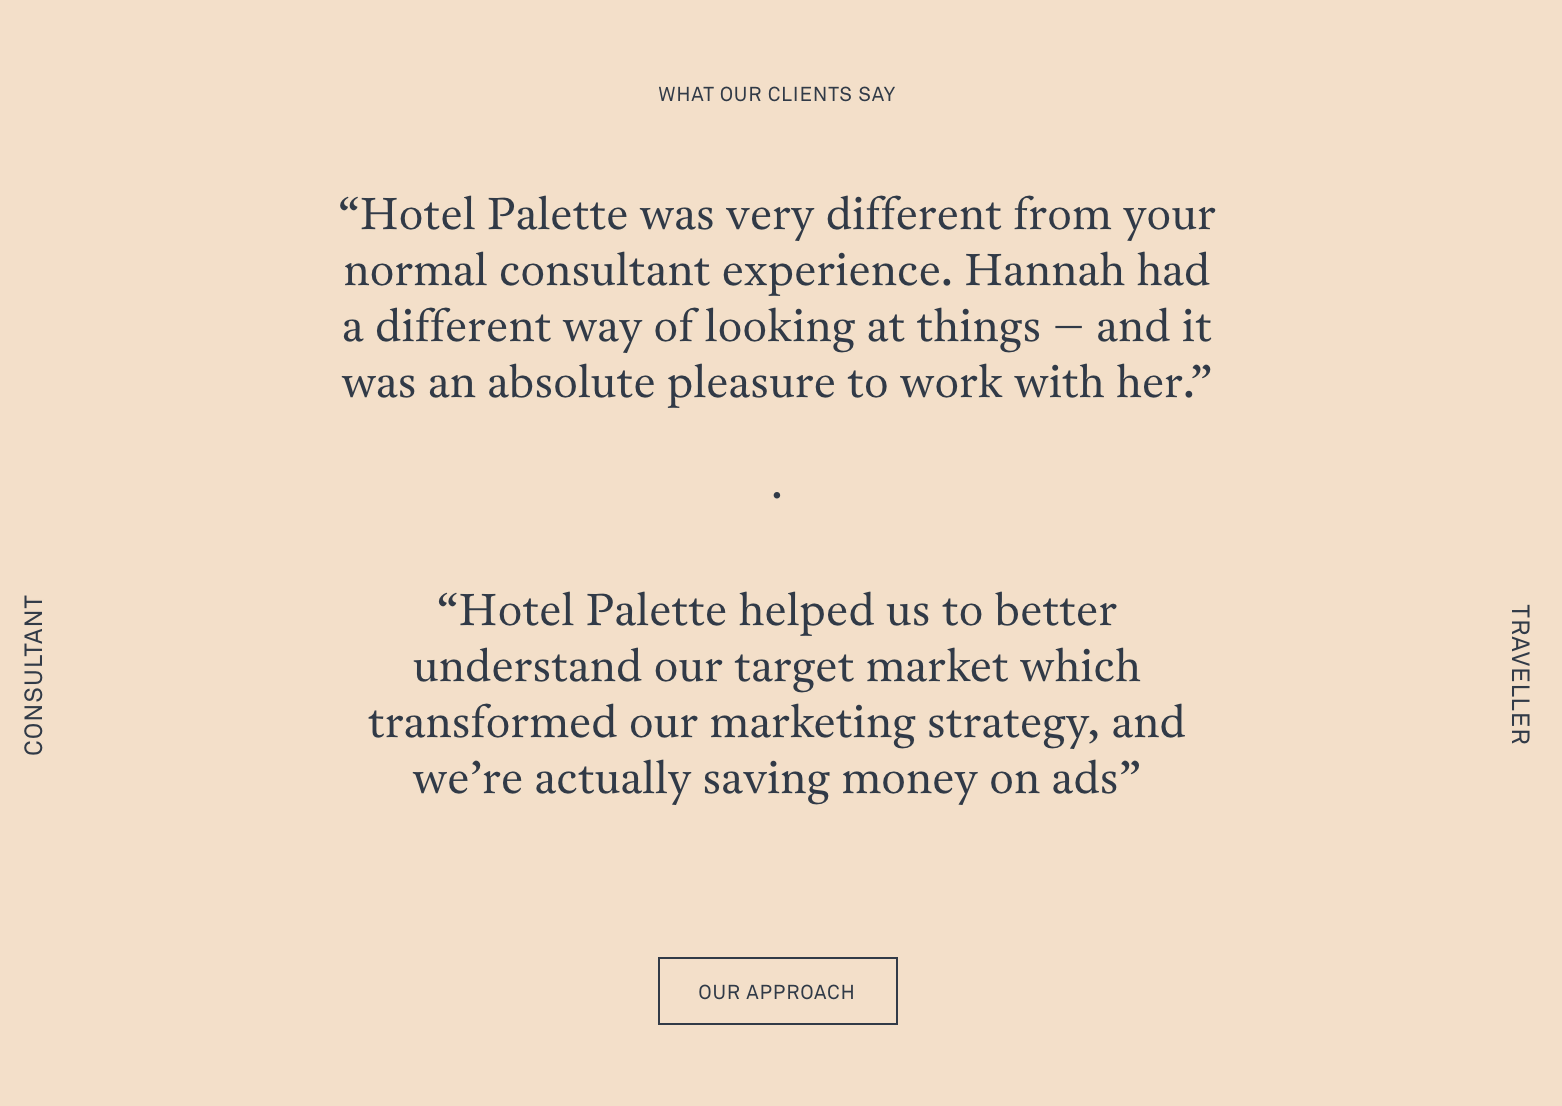
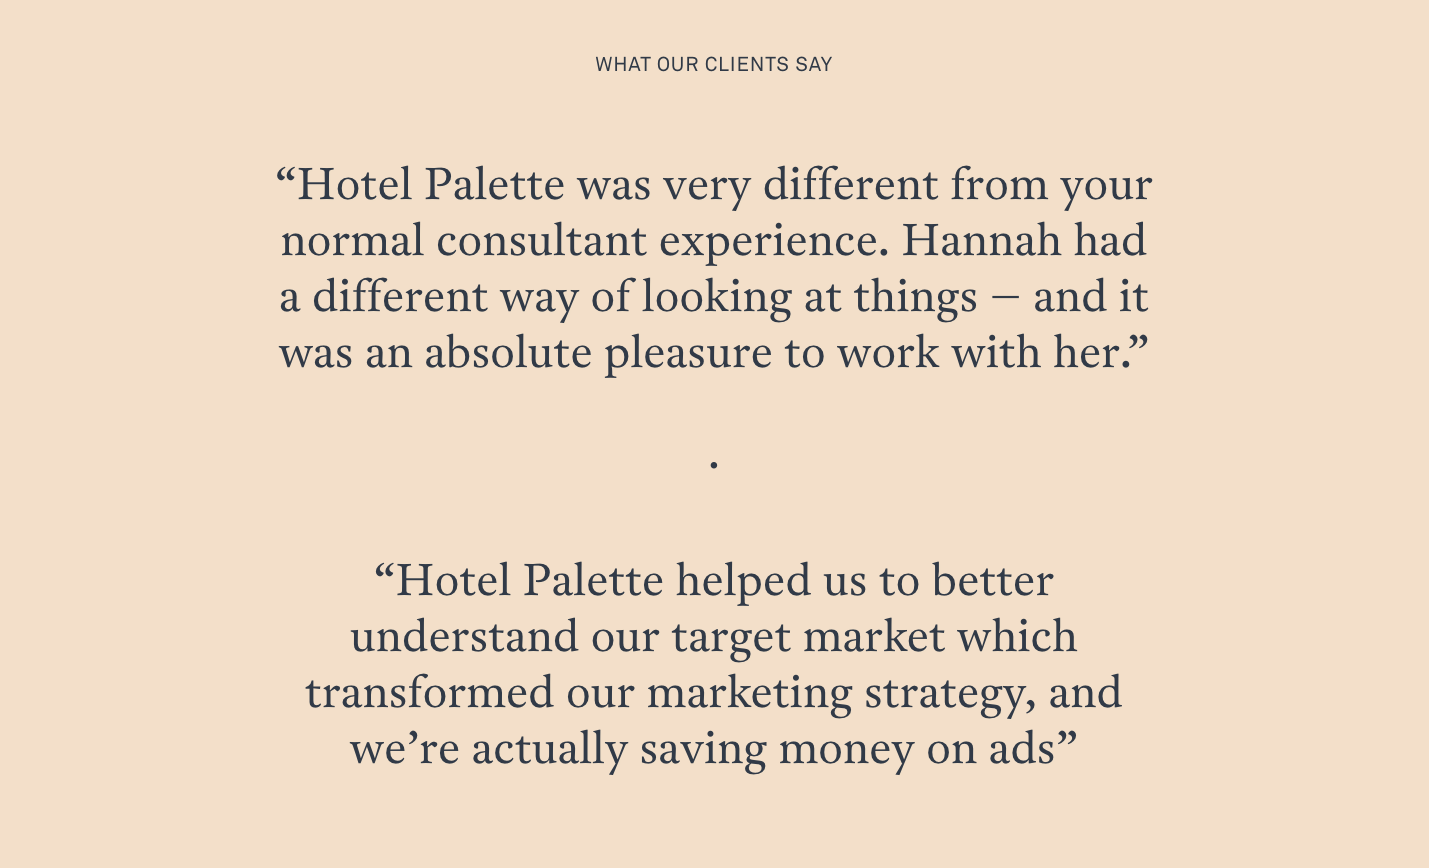
add feature section

diff --git a/components/index.html b/components/index.html
@@ -102,24 +102,35 @@
                     </div>
         </article>
 
-                    <article class="component">
-                        <h2 class="component-name">reviews section</h2>
-                        <div class="component-img">
-                            <img srcset="img/review-section.png 2x" 
-                            src="img/review-section.png" alt="review section" />
-                        </div>
+        <article class="component">
+            <h2 class="component-name">feature section</h2>
+            <div class="component-img">
+                    <img srcset="img/feature-section.png 2x" 
+                    src="img/feature-section.png" alt="feature section" />
+            </div>
             
-                    <div class="component-code">
-                        <h2 class="component-name">what our clients say</h2>
-                        <p>“Hotel Palette was very different from your normal consultant experience. 
-                        Hannah had a different way of looking at things – and it was an absolute 
-                        pleasure to work with her.”</p>
-                        ·
-                        <p>“Hotel Palette helped us to better understand our target market which transformed 
-                        our marketing strategy, and we’re actually saving money on ads”</p>
-                            
-                        </div>
-                    </article>
+            <div class="component-code">
+           
+            </div>
+         </article>
+                    
+        <article class="component">
+            <h2 class="component-name">reviews section</h2>
+            <div class="component-img">
+                    <img srcset="img/review-section.png 2x" 
+                    src="img/review-section.png" alt="review section" />
+            </div>
+            
+            <div class="component-code">
+            <h2 class="component-name">what our clients say</h2>
+                    <p>“Hotel Palette was very different from your normal consultant experience. 
+                    Hannah had a different way of looking at things – and it was an absolute 
+                    pleasure to work with her.”</p>
+                     ·
+                    <p>“Hotel Palette helped us to better understand our target market which transformed 
+                    our marketing strategy, and we’re actually saving money on ads.”</p>       
+            </div>
+         </article>
             
             </div>
         </article>

diff --git a/css/main.css b/css/main.css
@@ -24,7 +24,7 @@ body {
     line-height: 1.4;
     color: var(--blue);
     text-align: center;
-    margin: 5rem;
+    margin: 7rem;
     font-size: x-large;
 }
   
